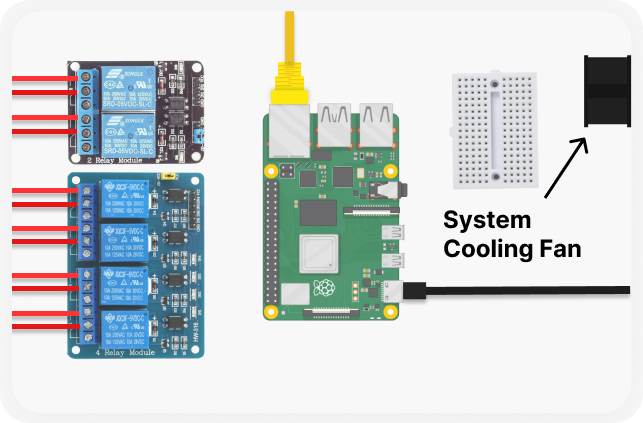
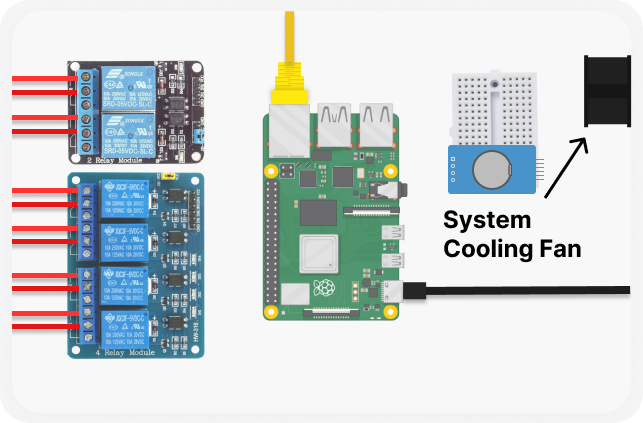
docu RTC added

Changed region(s): [[0.6843, 0.3381, 0.8398, 0.461]]

diff --git a/docs/_page_physical.md b/docs/_page_physical.md
@@ -1,7 +1,7 @@
 # Physical Installation
 
 <center>
-    <img src="_media/phs_install.png">
+    <img src="https://senpai-coders.github.io/CAPSTONE-PHS-Machine/_media/phs_install.png">
 </center>
 
 Out of the box, PHS Machine is configured by the developer. Only the wiring of other components are not pre-installed & you have to install it by yourself on the PHS.
@@ -13,16 +13,14 @@ PHS Box contains the heart & brain of the system. You can place it anywhere safe
 ## Opening PHS Case Box
 
 <center>
-    <img src="_media/scrw.png">
+    <img src="https://senpai-coders.github.io/CAPSTONE-PHS-Machine/_media/scrw.png">
 </center>
 
 Once PHS is installed in place. We can now install other components needed by PHS. But first let's open the case where it is held by **4 screws**. Unscrew this to open the PHS.
 
 > **NOTE** : Ignore the wires that are pre installed.
 
-<center>
-    <img src="_media/phs_box_open.png">
-</center>
+![phs box open](_media/phs_box_open.png)
 
 Once opened. This is what PHS contains. It contains **Relays, Raspberry Pi, Breadboard, & Fan**.
 
@@ -30,40 +28,31 @@ Once opened. This is what PHS contains. It contains **Relays, Raspberry Pi, Brea
 
 PHS has its power adapter which is a **type c**. Pass it through the PHS port holes and connect it to the **C port** of Raspberry Pi.
 
-<center>
-    <img src="_media/phs_power.png">
-</center>
+![imgs](_media/phs_power.png)
 
 ## Local Network 
 
 PHS need a **local network** so that the website can be accessable via local network on **any** devices that have a **web browser**. 
 
-<center>
-    <img src="_media/network_topo.png">
-</center>
+![imgs](_media/network_topo.png)
+
 
 > **Note** : PHS Doesn't need a Internet, just a router that can function properly to create a local network. But if internet does exist, PHS will enable its feature **notification via email**.
 
 ## Connecting PHS to router
 
-<center>
-    <img src="_media/catcable.png">
-</center>
+![imgs](_media/catcable.png)
 
 PHS comes with 1 **ethernet cable**. You can connect this ethernet cable to the router. The router will assign an **IP address** to the PHS once the router & PHS is turned on. This makes the PHS **accessible** from the Local Network
 
-<center>
-    <img src="_media/phs_ether.png">
-</center>
+![imgs](_media/phs_ether.png)
 
 Connect the cable to the **Ethernet Port** of the Rasberry Pi and attatch the other end to the one of available **port** on the **Router**.
 
 
 ## Attatching Components / Devices 
 
-<center>
-    <img src="_media/phs_relays.png">
-</center>
+![imgs](_media/phs_relays.png)
 
 By default, PHS have **6 relays**. These relays **controls** all the components that the system uses to perform it's duty in resolving heat stress. Components that can be attatch to the relays are devices that can be turn **on** or **off** only. These relay can handle up to **10A 250VAC** or **15A 125VAC**.
 
@@ -72,9 +61,7 @@ By default, PHS have **6 relays**. These relays **controls** all the components 
 
 > **WARNING** : Some of this component may range from **low voltage** to **high voltage**, so please be extra careful.
 
-<center>
-    <img src="_media/phs_relay_diag.png">
-</center>
+![imgs](_media/phs_relay_diag.png)
 
 This is how relay works. It has **3 contact terminal** to connect to.
 
@@ -86,51 +73,37 @@ This is how relay works. It has **3 contact terminal** to connect to.
 
 By default, PHS has **2x2 Grid** on it's pov but you can expand it from the settings, each cell call the **solenoid valves** to open when the heat stress originate from one of them. This allows the flow of water to flow and create a **mist** to lower the pigs body temperature. These solenoid valves needs **12V** power to run.
 
-<center>
-    <img src="_media/phs_solenoid_attatchment.png">
-</center>
+![imgs](_media/phs_solenoid_attatchment.png)
 
 This is how to attatch a solenoid valve to the relay.
 
-<center>
-    <img src="_media/phs_solenoids.png">
-</center>
+![imgs](_media/phs_solenoids.png)
 
 Repeat the process to other 3 solenoid valves and it should look like this.
 
 ## The Water Pump ( Component, Optional )
 
-<center>
-    <img src="_media/phs_pump.png">
-</center>
+![imgs](_media/phs_pump.png)
 
 By default, we provide  **12 volt water pump** because some piggery have their water provider a **weak water pressure** failing to create good mist. Water pump helps generate **high pressure** thus forming an ideal mist. But if the water pressure from their water provider is **high enough**, you can replace it with **another solenoid valve**. The image above shows the concept of how it should work.
 
-<center>
-    <img src="_media/phs_relay_pump.png">
-</center>
+![imgs](_media/phs_relay_pump.png)
 
 This shows how the water pump should properly attatched to the relay.
 
 ## The Tubing ( Required )
 
-<center>
-    <img src="_media/phs_tubing.png">
-</center>
+![imgs](_media/phs_tubing.png)
 
 Depends on how many mist **nozzle** and **solenoid** you'll have, the tubing also depends on that. This is a **simple example** on how you may do your tubing. You may repeat this to other nozzles or solenoid.
 
 ## The Nozzle ( Required )
 
-<center>
-    <img src="_media/phs_nozzle.png">
-</center>
+![imgs](_media/phs_nozzle.png)
 
 You need to attatch the **nozzle** at the **end destination** of every tubes. This nozzle create **fine mist** that helps lower pig temperature.
 
-<center>
-    <img src="_media/phs_tubing_nozzle.png">
-</center>
+![imgs](_media/phs_tubing_nozzle.png)
 
 This is how it should look after attatching
 
@@ -138,24 +111,18 @@ This is how it should look after attatching
 
 ## The Fan ( Component, Optional )
 
-<center>
-    <img src="_media/phs_fan.png">
-</center>
+![imgs](_media/phs_fan.png)
 
 By default, we provide a **leaf style fan**. Other than using water to reduce pig body temperature, there should be a **dry area** where pig can rest. So fan helps **circulate air** and **lowers the pig temperature** while leaving a dry place for the pig to rest. You should aim and place it where the pig can't reach it.
 
 
-<center>
-    <img src="_media/phs_relay_fan.png">
-</center>
+![imgs](_media/phs_relay_fan.png)
 
 This shows how the fan should properly attatched to the relay.
 
 ## Example result when done
 
-<center>
-    <img src="_media/Example.png">
-</center>
+![imgs](_media/final_phs.png)
 
 ## DONE
 
